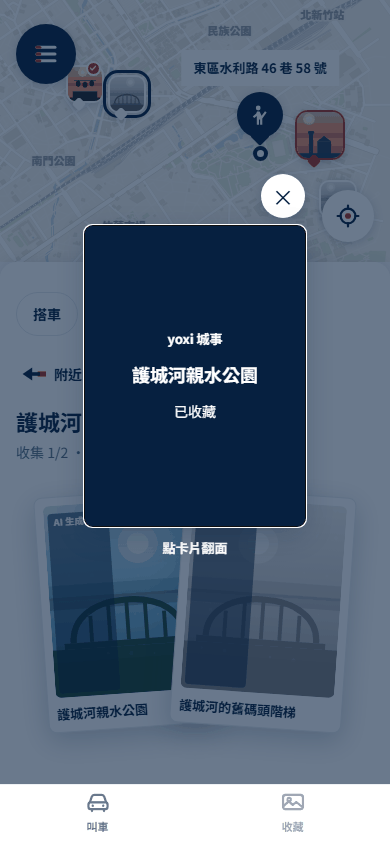
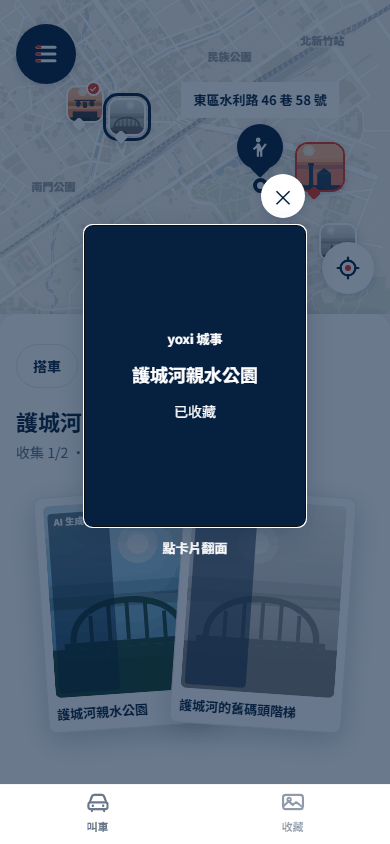
移除探索面板的附近地區清單，展開直看卡片

diff --git a/app/js/views/ride.js b/app/js/views/ride.js
@@ -505,22 +505,9 @@ function areaProgress(a) {
   return { done: a.cards.filter(function (id) { return S().has(id); }).length, total: a.cards.length };
 }
 function areaCard(id) { return (M().POSTCARDS || []).filter(function (p) { return p.id === id; })[0] || null; }
-function areaListHTML() {
-  return '<div class="ride-v2__section"><h2>附近的地方</h2></div>' +
-    '<div class="ride-v2__area-list">' + CARD_AREAS.map(function (a) {
-      const p = APP.place(a.id), r = areaProgress(a);
-      return '<button class="ride-v2__area" type="button" data-act="select-area" data-area="' + esc(a.id) + '">' +
-        '<span class="ride-v2__area-art" data-art="' + esc(p.art) + '" data-seed="2"></span>' +
-        '<span class="ride-v2__area-body"><strong>' + esc(a.name) + '</strong><small>' + esc(p.name) +
-          ' · ' + esc(F.dist(p.dist)) + '</small></span>' +
-        '<span class="ride-v2__area-count">' + r.done + '/' + r.total + '<span class="arrow"></span></span></button>';
-    }).join('') + '</div>';
-}
 function areaCardsHTML(a) {
   const r = areaProgress(a), p = APP.place(a.id);
-  return '<div class="ride-v2__section"><button class="ride-v2__back" type="button" data-act="all-areas">' +
-      '<span class="arrow arrow--left"></span>附近的地方</button>' +
-      '<h2>' + esc(a.name) + '的卡片</h2>' +
+  return '<div class="ride-v2__section"><h2>' + esc(a.name) + '的卡片</h2>' +
       '<p>收集 ' + r.done + '/' + r.total + ' · 離你 ' + esc(F.dist(p.dist)) + '</p></div>' +
     '<div class="ride-v2__stack" data-stack-size="' + a.cards.length + '">' + a.cards.map(function (id) {
       const c = areaCard(id);
@@ -575,7 +562,7 @@ function rideV2Render(params, ctx) {
       '<div class="sheet__grip"><div class="sheet__handle"></div></div>' +
       rideModePills('explore') +
       '<div class="ride-v2__intro" data-area-intro>' + areaIntroHTML(a) + '</div>' +
-      '<div class="ride-v2__expanded" data-expand-only data-area-expanded>' + (a ? areaCardsHTML(a) : areaListHTML()) + '</div>' +
+      '<div class="ride-v2__expanded" data-expand-only data-area-expanded>' + areaCardsHTML(a) + '</div>' +
     '</section>' + rideCardFloatHTML();
 }
 function rideV2Mount(root, params, ctx) {
@@ -586,7 +573,7 @@ function rideV2Mount(root, params, ctx) {
   const floatCard = floating.querySelector('[data-act="flip-card"]');
   const tabbar = document.getElementById('tabbar');
   let selected = cardArea(ctx.query.get('area')) || nearestCardArea();
-  let showAreaList = false, returnFocus = null;
+  let returnFocus = null;
   if (!cardArea(ctx.query.get('area'))) APP.nav.replaceQuery('mode=explore&area=' + encodeURIComponent(selected.id));
   const map = APP.map.mount(root.querySelector('[data-ride-map]'), {
     style: 'paper', center: RIDE_CENTER, spanM: RIDE_SPAN,
@@ -604,17 +591,12 @@ function rideV2Mount(root, params, ctx) {
   }
   function paint() {
     intro.innerHTML = areaIntroHTML(selected);
-    expanded.innerHTML = showAreaList ? areaListHTML() : areaCardsHTML(selected);
+    expanded.innerHTML = areaCardsHTML(selected);
     SHELL.injectArt(intro);
     SHELL.injectArt(expanded);
     SHELL.injectIcons(sheet);
     intro.querySelector('[data-act="expand-cards"]').onclick = function () { setOpen(true); };
     intro.querySelector('[data-act="use-yoxi"]').onclick = function () { setDropoff(selected.id, 'e'); };
-    expanded.querySelectorAll('[data-act="select-area"]').forEach(function (b) {
-      b.onclick = function () { selectArea(b.getAttribute('data-area'), false); };
-    });
-    const back = expanded.querySelector('[data-act="all-areas"]');
-    if (back) back.onclick = function () { showAreaList = true; paint(); };
     expanded.querySelectorAll('[data-act="open-card"]').forEach(function (b) {
       b.onclick = function () { openCard(b.getAttribute('data-card'), b); };
     });
@@ -624,7 +606,6 @@ function rideV2Mount(root, params, ctx) {
   }
   function selectArea(id, fromMap) {
     selected = cardArea(id) || nearestCardArea();
-    showAreaList = false;
     APP.nav.replaceQuery('mode=explore&area=' + encodeURIComponent(selected.id));
     paint();
     if (fromMap) setOpen(false);

diff --git a/app/tests/specs/ride.spec.js b/app/tests/specs/ride.spec.js
@@ -149,10 +149,14 @@ T.spec('ride', function (t) {
     W.dispatchEvent(new W.PointerEvent('pointerup', { bubbles: true, clientY: box.top - 90, pointerId: 1 }));
     t.ok(!app.$('.ride-sheet').classList.contains('is-collapsed'), '向上拉後面板展開');
     t.eq(app.$$('[data-area-expanded] [data-act="open-card"]').length, 2, '預設最近地區的兩張卡');
-    await app.click('[data-act="all-areas"]');
-    t.eq(app.$$('[data-act="select-area"]').length, 4, '附近四個地區');
-    await app.click('[data-act="select-area"][data-area="market"]');
-    t.eq(app.route().query.get('area'), 'market', '選定東門');
+    t.eq(app.$$('[data-act="all-areas"], [data-act="select-area"]').length, 0, '展開後沒有多餘的地區清單');
+    const firstDown = grip.getBoundingClientRect();
+    grip.dispatchEvent(new W.PointerEvent('pointerdown', { bubbles: true, clientY: firstDown.top + 10, pointerId: 2 }));
+    W.dispatchEvent(new W.PointerEvent('pointermove', { bubbles: true, clientY: firstDown.top + 100, pointerId: 2 }));
+    W.dispatchEvent(new W.PointerEvent('pointerup', { bubbles: true, clientY: firstDown.top + 100, pointerId: 2 }));
+    await app.click('.spot[data-spot="market"]');
+    t.eq(app.route().query.get('area'), 'market', '地圖選定東門');
+    await app.click('[data-act="expand-cards"]');
     t.eq(app.$$('[data-area-expanded] [data-card]').length, 4, '東門四張卡');
     t.ok(!app.$('[data-act="peek-place"]'), '沒有地點詳情入口');
     await app.click('[data-act="open-card"][data-card="p1"]');
@@ -164,16 +168,15 @@ T.spec('ride', function (t) {
     await app.click('[data-act="close-card"]');
     t.ok(app.$('[data-card-float]').hidden, '可關閉懸浮卡片');
     const downBox = grip.getBoundingClientRect();
-    grip.dispatchEvent(new W.PointerEvent('pointerdown', { bubbles: true, clientY: downBox.top + 10, pointerId: 2 }));
-    W.dispatchEvent(new W.PointerEvent('pointermove', { bubbles: true, clientY: downBox.top + 100, pointerId: 2 }));
-    W.dispatchEvent(new W.PointerEvent('pointerup', { bubbles: true, clientY: downBox.top + 100, pointerId: 2 }));
+    grip.dispatchEvent(new W.PointerEvent('pointerdown', { bubbles: true, clientY: downBox.top + 10, pointerId: 3 }));
+    W.dispatchEvent(new W.PointerEvent('pointermove', { bubbles: true, clientY: downBox.top + 100, pointerId: 3 }));
+    W.dispatchEvent(new W.PointerEvent('pointerup', { bubbles: true, clientY: downBox.top + 100, pointerId: 3 }));
     t.ok(app.$('.ride-sheet').classList.contains('is-collapsed'), '向下拉收合探索面板');
     t.eq(app.route().query.get('mode'), 'explore', '收合後仍在探索');
     await app.reload('/ride?mode=explore&area=market');
     t.eq(app.$$('[data-area-expanded] [data-card]').length, 4, '重新整理仍是東門四張');
-    await app.click('[data-act="all-areas"]');
-    t.eq(app.$$('[data-act="select-area"]').length, 4, '可回附近清單');
-    t.eq(app.route().query.get('area'), 'market', '回清單仍保留選定地區');
+    t.eq(app.$$('[data-act="all-areas"], [data-act="select-area"]').length, 0, '重新整理後也沒有地區清單');
+    t.eq(app.route().query.get('area'), 'market', '重新整理仍保留選定地區');
   });
 
   t.test('地區卡片收集狀態跟 STATE 更新', async function (app) {

diff --git a/app/css/views/ride.css b/app/css/views/ride.css
@@ -175,20 +175,6 @@
 .ride-v2__expanded { padding-bottom: var(--sp-5); }
 .ride-v2__section h2 { margin: var(--sp-2) 0 var(--sp-1); font-size: var(--fs-title); }
 .ride-v2__section p { margin: 0 0 var(--sp-4); color: var(--app-muted); font-size: var(--fs-sm); line-height: var(--lh-body); }
-.ride-v2__area-list { display: grid; gap: var(--sp-2); }
-.ride-v2__area {
-  display: flex; align-items: center; gap: var(--sp-3); width: 100%; min-height: 78px;
-  padding: var(--sp-2); border: 1px solid var(--yoxi-line); border-radius: var(--r-card);
-  background: var(--yoxi-paper); text-align: left;
-}
-.ride-v2__area-art { position: relative; width: 48px; height: 58px; flex: none; overflow: hidden; border-radius: var(--r-img); }
-.ride-v2__area-art > * { width: 100%; height: 100%; }
-.ride-v2__area-body { flex: 1; min-width: 0; }
-.ride-v2__area-body strong, .ride-v2__area-body small { display: block; }
-.ride-v2__area-body strong { color: var(--yoxi-navy); font-size: var(--fs-sm); }
-.ride-v2__area-body small { margin-top: var(--sp-1); color: var(--app-muted); font-size: var(--fs-xs); line-height: 1.35; }
-.ride-v2__area-count { display: flex; align-items: center; gap: var(--sp-2); color: var(--yoxi-navy); font-weight: var(--fw-heavy); }
-.ride-v2__back { display: flex; align-items: center; gap: var(--sp-2); min-height: 44px; color: var(--yoxi-navy); font-size: var(--fs-sm); font-weight: var(--fw-bold); }
 .ride-v2__stack { display: flex; justify-content: center; align-items: center; width: 100%; min-height: 220px; padding: var(--sp-3) 0 var(--sp-4); }
 .ride-v2__card { position: relative; flex: none; width: 48%; padding: var(--sp-2); border: 1px solid var(--yoxi-line); border-radius: var(--r-card); background: var(--yoxi-paper); box-shadow: var(--sh-lift); text-align: left; transition: transform var(--t-base) var(--ease-out); }
 .ride-v2__card + .ride-v2__card { margin-left: -10%; }

diff --git a/app/js/views/system.js b/app/js/views/system.js
@@ -20,7 +20,7 @@
 (function () {
 'use strict';
 
-const VERSION = 'chengshi-app-v7';
+const VERSION = 'chengshi-app-v8';
 const PUSH_TIME = { am: '8:10', pm: '21:30' };       /* 推播浮層上的鎖定畫面時間（demo 設定，不是真實時間） */
 const PUSH_KEY = { am: 'pushAm', pm: 'pushPm' };
 const PUSH_MAX = 2;                                  /* 一天最多兩則 */
@@ -363,7 +363,7 @@ const DATA = [
   ['steps',  '步數',     '用來畫今天的回顧的路徑，資料留在手機上；關掉回顧就沒有路線', 'steps'],
   ['camera', '相簿',     '只在今天的回顧才讀取當天照片，不會上傳；關掉回顧就只有明信片', 'photos'],
   ['route',  '行程紀錄', '用來知道你搭車去過哪裡；關掉搭車抵達就不會自動收進足跡', 'trips'],
-  ['place',  '探索模式的景點', '探索時在地圖顯示附近有卡片的地方；關掉後仍可從面板清單選地區', 'rideSpots'],
+  ['place',  '探索模式的景點', '探索時在地圖顯示附近有卡片的地方；關掉後保留目前選定的地區', 'rideSpots'],
 ];
 /* 這些開關存在 app 自己的 store（不是 STATE.settings） */
 const STORE_SWITCH = { rideSpots: true };

diff --git a/app/sw.js b/app/sw.js
@@ -16,7 +16,7 @@
      }
    ========================================================================== */
 
-const VERSION = 'chengshi-app-v7';
+const VERSION = 'chengshi-app-v8';
 
 // 路徑相對於 sw.js（app/）。順序照 ARCHITECTURE §2 的載入順序。
 const PRECACHE = [

diff --git a/app/tools/shoot-app.py b/app/tools/shoot-app.py
@@ -78,7 +78,6 @@ RUN_DROPOFF = ("var p=APP.place('glass-kiln');APP.store.set('dropoff',{id:p.id,n
                "setAt:new Date().toISOString(),via:'e'});APP.nav.go('/ride',{replace:true,dir:'none'});")
 RUN_SELECT = "var s=document.querySelector('#view .spot[data-spot=\"moat\"]');if(s)s.click();"
 RUN_STACK = "var b=document.querySelector('[data-act=\"expand-cards\"]');if(b)b.click();"
-RUN_AREAS = RUN_STACK + "var a=document.querySelector('[data-act=\"all-areas\"]');if(a)a.click();"
 RUN_CARDS = RUN_SELECT + RUN_STACK
 RUN_FLOAT = RUN_CARDS + "var c=document.querySelector('[data-act=\"open-card\"]');if(c)c.click();"
 RUN_FLOAT_BACK = RUN_FLOAT + "var f=document.querySelector('[data-act=\"flip-card\"]');if(f)f.click();"
@@ -90,7 +89,6 @@ SHOTS = [
     ('ride',             '/ride',                 None),
     ('ride-dropoff',     '/ride',                 {'run': RUN_DROPOFF}),
     ('ride-peek',        '/ride?mode=explore',    None),
-    ('ride-areas',       '/ride?mode=explore',    {'run': RUN_AREAS}),
     ('ride-cards',       '/ride?mode=explore',    {'run': RUN_CARDS}),
     ('ride-float',       '/ride?mode=explore',    {'run': RUN_FLOAT}),
     ('ride-float-back',  '/ride?mode=explore',    {'run': RUN_FLOAT_BACK}),

diff --git a/app/ARCHITECTURE.md b/app/ARCHITECTURE.md
@@ -35,7 +35,7 @@ app 比原型多出來的東西（原型是一疊畫面，app 要能走完一圈
 
 ### 雙主頁的叫車面板
 
-- `#/ride` 預設是一般搭車地圖與叫車欄位；搭車面板只能往下拉收合，收合時跟手、放開後接續動畫，點「展開搭車」平順恢復，不接受向上拖曳。面板頂端的「探索」切到 `#/ride?mode=explore`，地圖顯示四個附近地點，並依 `APP.place(id).dist` 預選最近的地區。探索面板收合態用一張精簡地點卡顯示名稱、短句、距離與步行分鐘，動作是「用 yoxi」及「收集」；上拉或點「收集」顯示該地區的幾張疊放卡片，點卡片開啟可翻面的懸浮小卡，不進地點詳情頁。選點後網址寫成 `#/ride?mode=explore&area=<地點 id>`；往下拉只收合面板，仍留在探索。從地圖點選會先收合面板；切回「搭車」清除探索 query。
+- `#/ride` 預設是一般搭車地圖與叫車欄位；搭車面板只能往下拉收合，收合時跟手、放開後接續動畫，點「展開搭車」平順恢復，不接受向上拖曳。面板頂端的「探索」切到 `#/ride?mode=explore`，地圖顯示四個附近地點，並依 `APP.place(id).dist` 預選最近的地區。探索面板收合態用一張精簡地點卡顯示名稱、短句、距離與步行分鐘，動作是「用 yoxi」及「收集」；上拉或點「收集」直接顯示該地區的幾張疊放卡片，點卡片開啟可翻面的懸浮小卡，不進地點詳情頁。地區只從地圖圖釘切換，不另設附近地區清單。選點後網址寫成 `#/ride?mode=explore&area=<地點 id>`；往下拉只收合面板，仍留在探索。從地圖點選會先收合面板；切回「搭車」清除探索 query。
 - 四組展示對應：`glass-kiln → p11,p17`、`market → p1,p2,p7,p20`、`moat → p3,p19`、`hill → p6,p21`。群組只定義卡片歸屬，收集與公里數仍由 `STATE`／`MOCK`／`APP.fmt` 計算；卡片不連地點詳情。
 - 舊 `/place/:id`、探索與回顧路由仍能直接開啟，供既有資料和流程對照；新底欄和叫車卡片面板不導向它們。
 
